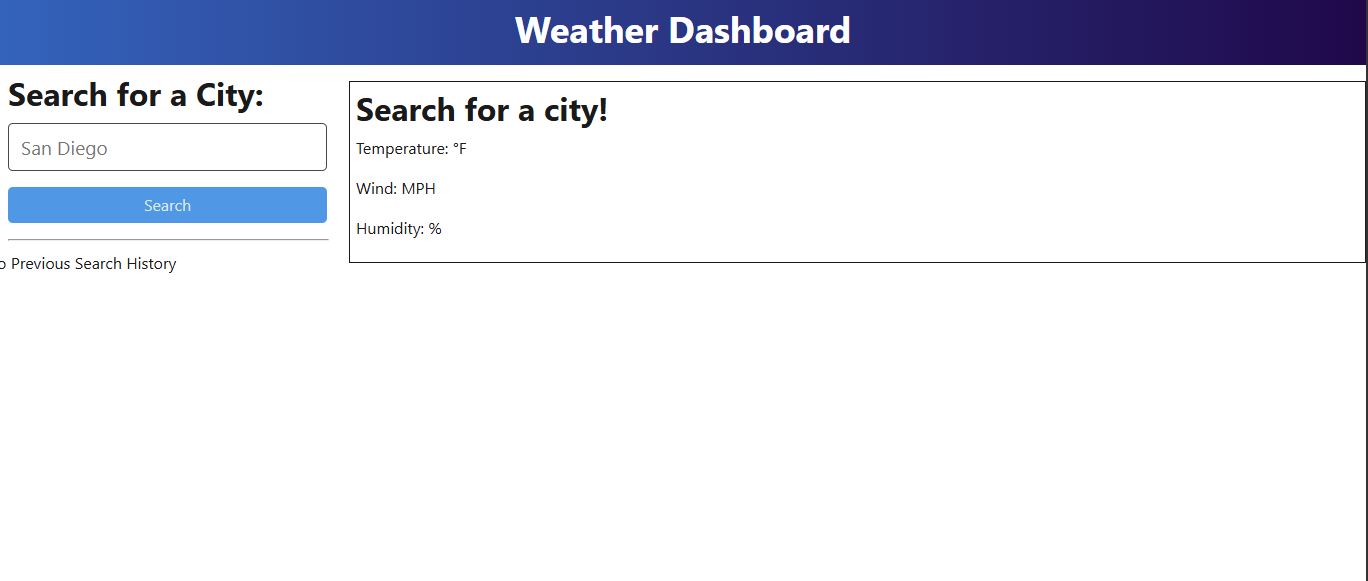
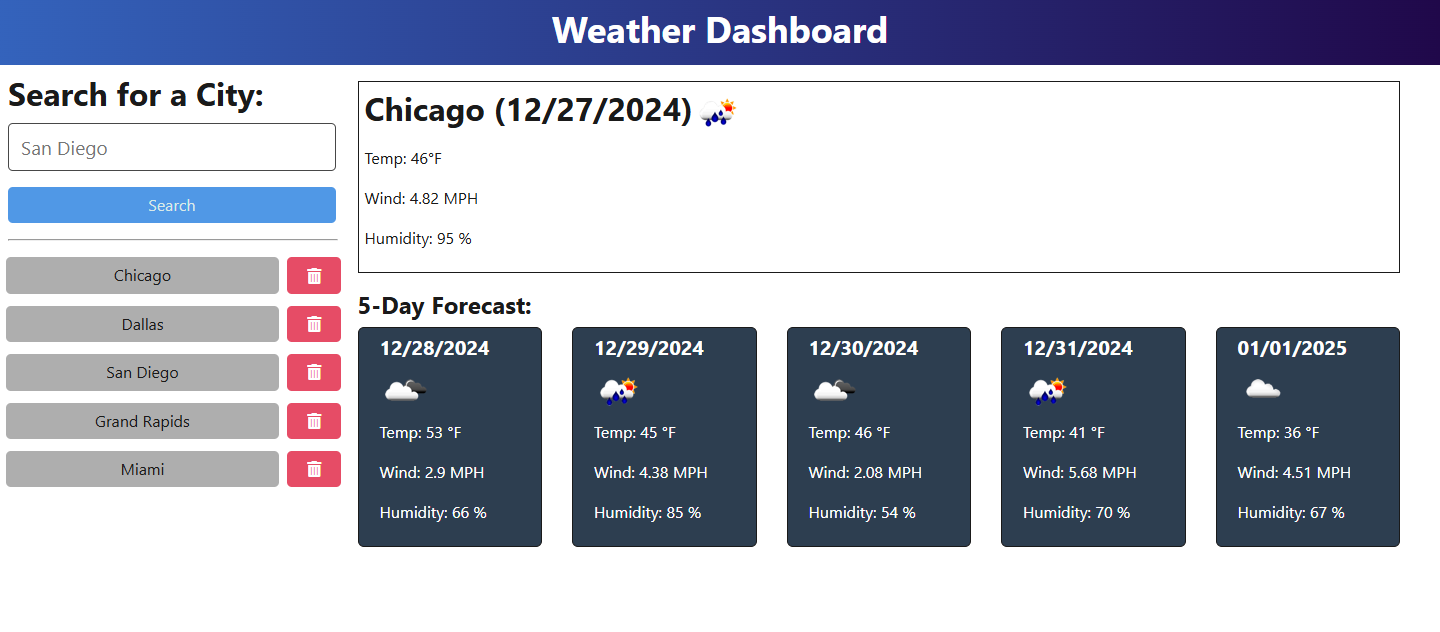
Updated the screenshot of the Weather Forecast Dashboard

diff --git a/server/src/service/weatherService.ts b/server/src/service/weatherService.ts
@@ -11,13 +11,19 @@ interface Coordinates{
 
 // TODO: Define a class for the Weather object
 class Weather{
+  city: string;
+  date: string;
   temperature: number;
-  description: string;
+  windSpeed: number;
+  humidity: number;
   icon: string;
 
-  constructor(temperature: number, description: string, icon: string){
+  constructor(city: string, date: string, temperature: number, windSpeed: number, humidity: number, icon: string){
+    this.city = city;
+    this.date = date;
     this.temperature = temperature;
-    this.description = description;
+    this.windSpeed = windSpeed;
+    this.humidity = humidity;
     this.icon = icon;
   }
 }
@@ -42,10 +48,7 @@ class WeatherService {
     console.log('Geocode Quary:', this.buildGeocodeQuery(query));   //Log the geocode query
     const data = await response.json();
     console.log('API Response: ', data);                 //Debugging purposes
-    console.log(`Latitude: ${data[1].lat}`);
-    console.log(`Longitude: ${data[1].lon}`);            //Debugging purposes
-
-
+   
     if (!data || data.length === 0) {
       throw new Error(`No Location Data found in Query: ${query}`);
     }
@@ -89,25 +92,44 @@ class WeatherService {
   // TODO: Create fetchWeatherData method
   private async fetchWeatherData(coordinates: Coordinates) {
     const response = await fetch(this.buildWeatherQuery(coordinates));
+
+    if(!response.ok){
+      throw new Error(`Failed to fetch weather data: ${response.statusText}`)
+    }
     return response.json();
 
   }
 
   // TODO: Build parseCurrentWeather method
   private parseCurrentWeather(response: any) {
+    if (!response.city || !response.list || response.list.length === 0) {
+      throw new Error('Invalid Weather Data Format');
+    }
+
+    const city = response.city.name;
+    const currentWeatherData = response.list[0];
+
     return new Weather(
-      response.main.temp,
-      response.weather[0].description,
-      response.weather[0].icon
+      city,
+      currentWeatherData.dt_txt,
+      currentWeatherData.main.temp,
+      currentWeatherData.wind.speed,
+      currentWeatherData.main.humidity,
+      currentWeatherData.weather[0].icon
+      
     );
   }
 
   // TODO: Complete buildForecastArray method: This method is used to display weather 
   // forcast for mulitple days
-  private buildForecastArray(currentWeather: Weather, weatherData: any[]){
-    const forecastArray = weatherData.map(data => new Weather(
+  private buildForecastArray(currentWeather: Weather, weatherData: any){
+    const city = weatherData.city.name;
+    const forecastArray = weatherData.list.map((data: any) => new Weather(
+      city,
+      data.dt_txt,
       data.main.temp,
-      data.weather[0].description,
+      data.wind.speed,
+      data.main.humidity,
       data.weather[0].icon
     ));
     
@@ -118,13 +140,20 @@ class WeatherService {
   
   // TODO: Complete getWeatherForCity method
   async getWeatherForCity(city: string): Promise<Weather[]> {
-    this.cityName = city;
-    const coordinates = await this.fetchAndDestructureLocationData();
-    const weatherData = await this.fetchWeatherData(coordinates);
-    const currentWeather = this.parseCurrentWeather(weatherData);
-    const forecastArray = this.buildForecastArray(currentWeather, weatherData.list)
+    try {
+      this.cityName = city;
+      const coordinates = await this.fetchAndDestructureLocationData();
+      const weatherData = await this.fetchWeatherData(coordinates);
+      const currentWeather = this.parseCurrentWeather(weatherData);
+      const forecastArray = this.buildForecastArray(currentWeather, weatherData.list)
+      
+      return forecastArray;
+      
+    } catch (err) {
+        console.error('Error fetching weather:', err);
+        throw new Error(`Failed to fetch weather for city: ${city}`);
+    }
     
-    return forecastArray;
   }
 }
 
